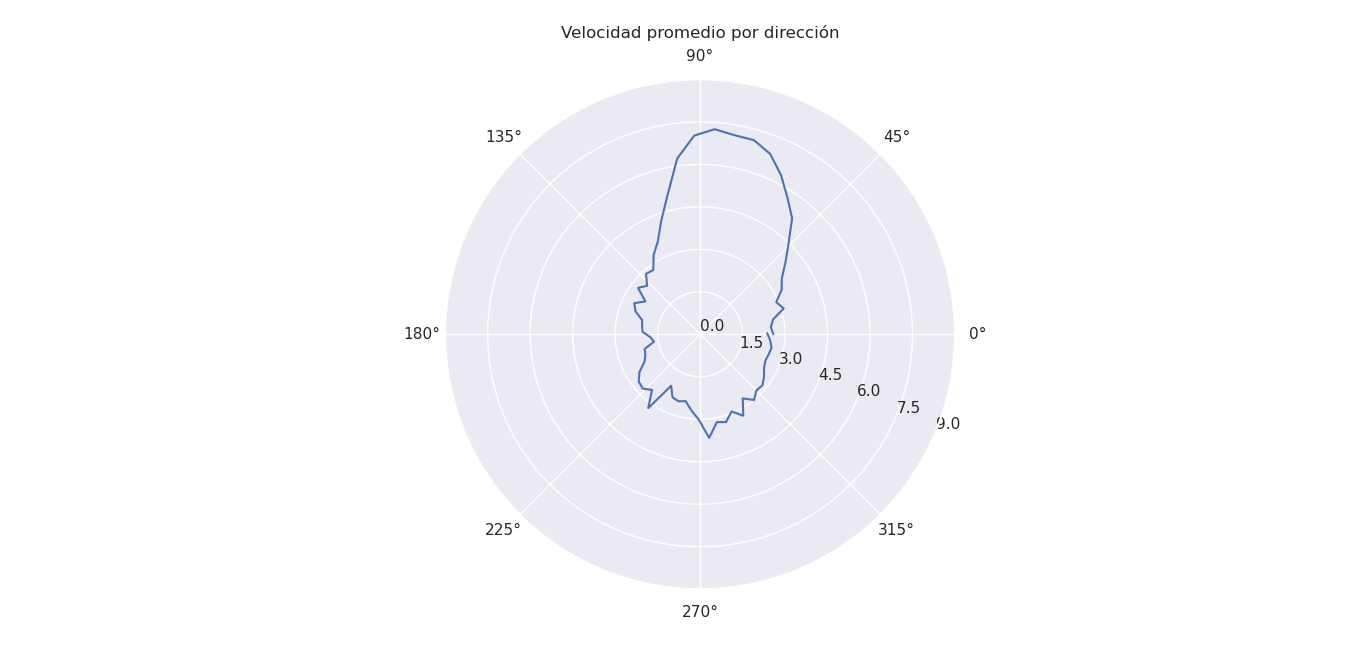
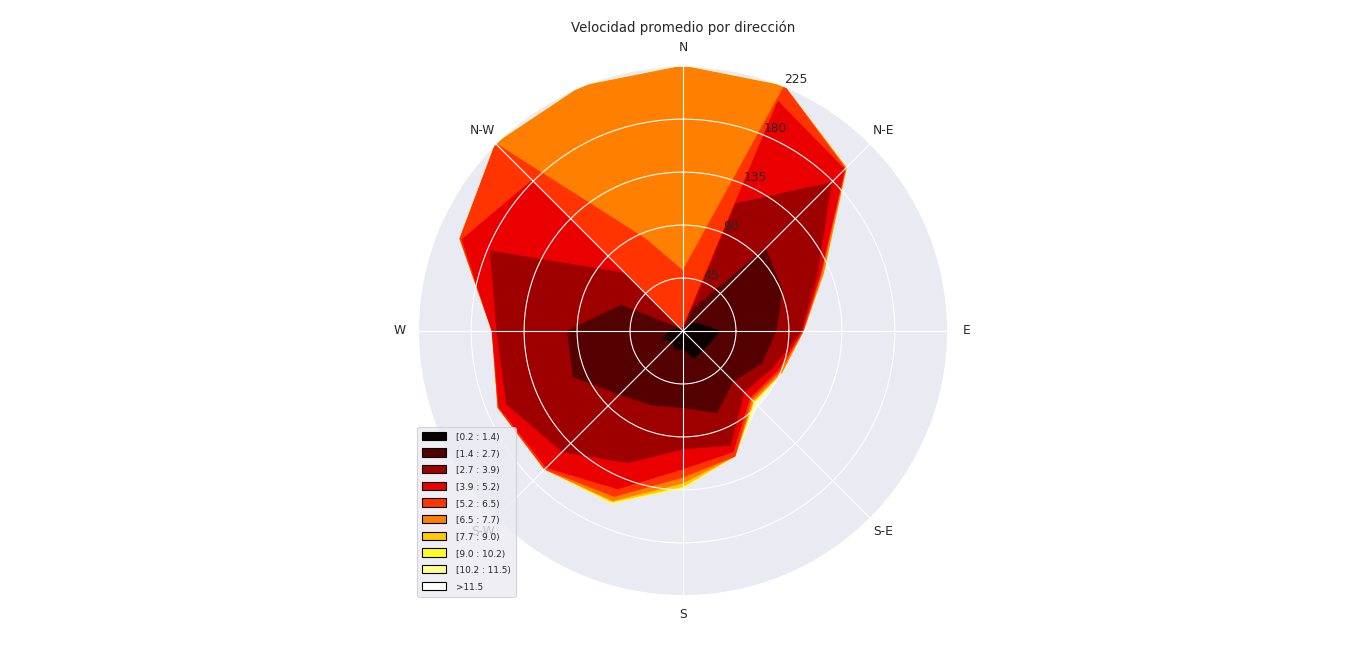
melo

diff --git a/tarea1_eolico.py b/tarea1_eolico.py
@@ -3,6 +3,12 @@ import pandas
 import numpy as np
 import pandas as pnd
 import seaborn as sbn
+import pandas as pd
+import numpy as np
+from matplotlib import pyplot as plt
+import matplotlib.cm as cm
+from math import pi
+from windrose import WindroseAxes
 sbn.set(rc={'figure.figsize':(10, 5)})
 
 
@@ -56,9 +62,13 @@ class Eolico():
         linea = self.sitio.readline().split(",")
         while len(linea[0]) > 0:
             self.datos["SPEED60"].append(float(linea[5]))
-            dir = (float(linea[6].replace("\n",""))*np.pi / 180)
-            self.datos["DIR98"].append(round(dir,1) )        
-            self.datos["DIR_DEG"].append(float(linea[6].replace("\n","")))        
+            dir = ((float(linea[6].replace("\n","")))*np.pi / 180)
+            
+            self.datos["DIR98"].append(round(dir,2) ) 
+            deg = np.rad2deg(dir) - 90    
+            if deg <0:
+                deg += 360     
+            self.datos["DIR_DEG"].append(deg)        
             #self.datos["DIR98"].append(np.deg2rad(float(linea[6].replace("\n","")) ))        
             
 
@@ -189,17 +199,21 @@ class Eolico():
 
         
     def distr_weibull(self):
-        x_hist = np.arange(0, 10, 0.2)
+        x_hist = np.arange(0, 10, 0.5)
+        gen = [0,0,0,0,12.5, 25, 160, 297, 480, 654, 950, 1180, 1500, 1871, 2350, 2768, 3250, 3717, 4150, 4600]
+        enr=[]
         y_hist = []
         for i in range(len (self.datos["SPEED60"])):
             vel = self.datos["SPEED60"][i]
             for j in range(len (x_hist)-1):
                 if vel < x_hist[j+1] and vel > x_hist[j]:
                     y_hist.append(x_hist[j])
-        x = np.arange(0, 10, 0.01)
+        x = np.arange(0, 10, 0.5)
         weibull = []
         for i in range(len(x)):
             w = ((self.k/self.lammbda)*(x[i]/self.lammbda)**(self.k-1) )*(np.exp(-(x[i]/self.lammbda)**(self.k)))
+            energia = gen[i]* w*87667
+            enr.append(energia)
             weibull.append(w*100)
         fig, axs = plt.subplots(2)
         fig.suptitle('Velocidad del viento')     
@@ -211,6 +225,20 @@ class Eolico():
         axs[1].legend(loc='upper right')
         axs[1].set_ylabel("Número de horas - total")
         axs[1].set_xlabel("Velocidad viento (m/s) ")
+
+        fig2, axs2 = plt.subplots(2)
+        fig2.suptitle('Velocidad del viento')     
+        axs2[0].plot( x,gen,"tab:red",label = "Curva de potencia")
+        axs2[0].legend(loc='upper right')
+        axs2[0].set_ylabel("kW")
+        axs2[0].set_xlabel("Velocidad viento (m/s) ")
+        axs2[1].plot( x,enr,"tab:blue",label = "Curva de energía")
+        axs2[1].legend(loc='upper right')
+        axs2[1].set_ylabel("kWh")
+        axs2[1].set_xlabel("Velocidad viento (m/s) ")
+        
+
+
         
 
 
@@ -219,7 +247,7 @@ class Eolico():
         r = []
         angs = []
         for i in range(len (self.vel_int)):
-            dir = self.datos["DIR98"][i]
+            dir = self.datos["DIR_DEG"][i]
             if dir not in theta:
                 ans = [self.vel_int[i],1]
                 theta[dir]= ans
@@ -235,16 +263,22 @@ class Eolico():
         for th in angs:
             pr = theta[th][0] / theta[th][1]
             r.append(pr)
-        print (angs)
+        #print (angs)
+        
         #print (f"angs {angs} ")
 
-        fig, ax = plt.subplots(subplot_kw={'projection': 'polar'})
-        ax.plot(angs, r)
-        ax.set_rticks( np.arange(0, 10, 1.5))  # Less radial ticks
-        ax.set_rlabel_position(-22.5)  # Move radial labels away from plotted line
+
+        
+        ax = WindroseAxes.from_ax()
+        #ax.bar(angs, r, normed=False, opening=0.8, edgecolor='white')
+        ax.contourf(angs, r,bins=10, cmap=cm.hot)
+        ax.set_legend()
+        #fig, ax = plt.subplots(subplot_kw={'projection': 'polar'})
         ax.grid(True)
         ax.set_title("Velocidad promedio por dirección", va='bottom')
         plt.show()
+
+        
 
         
 
